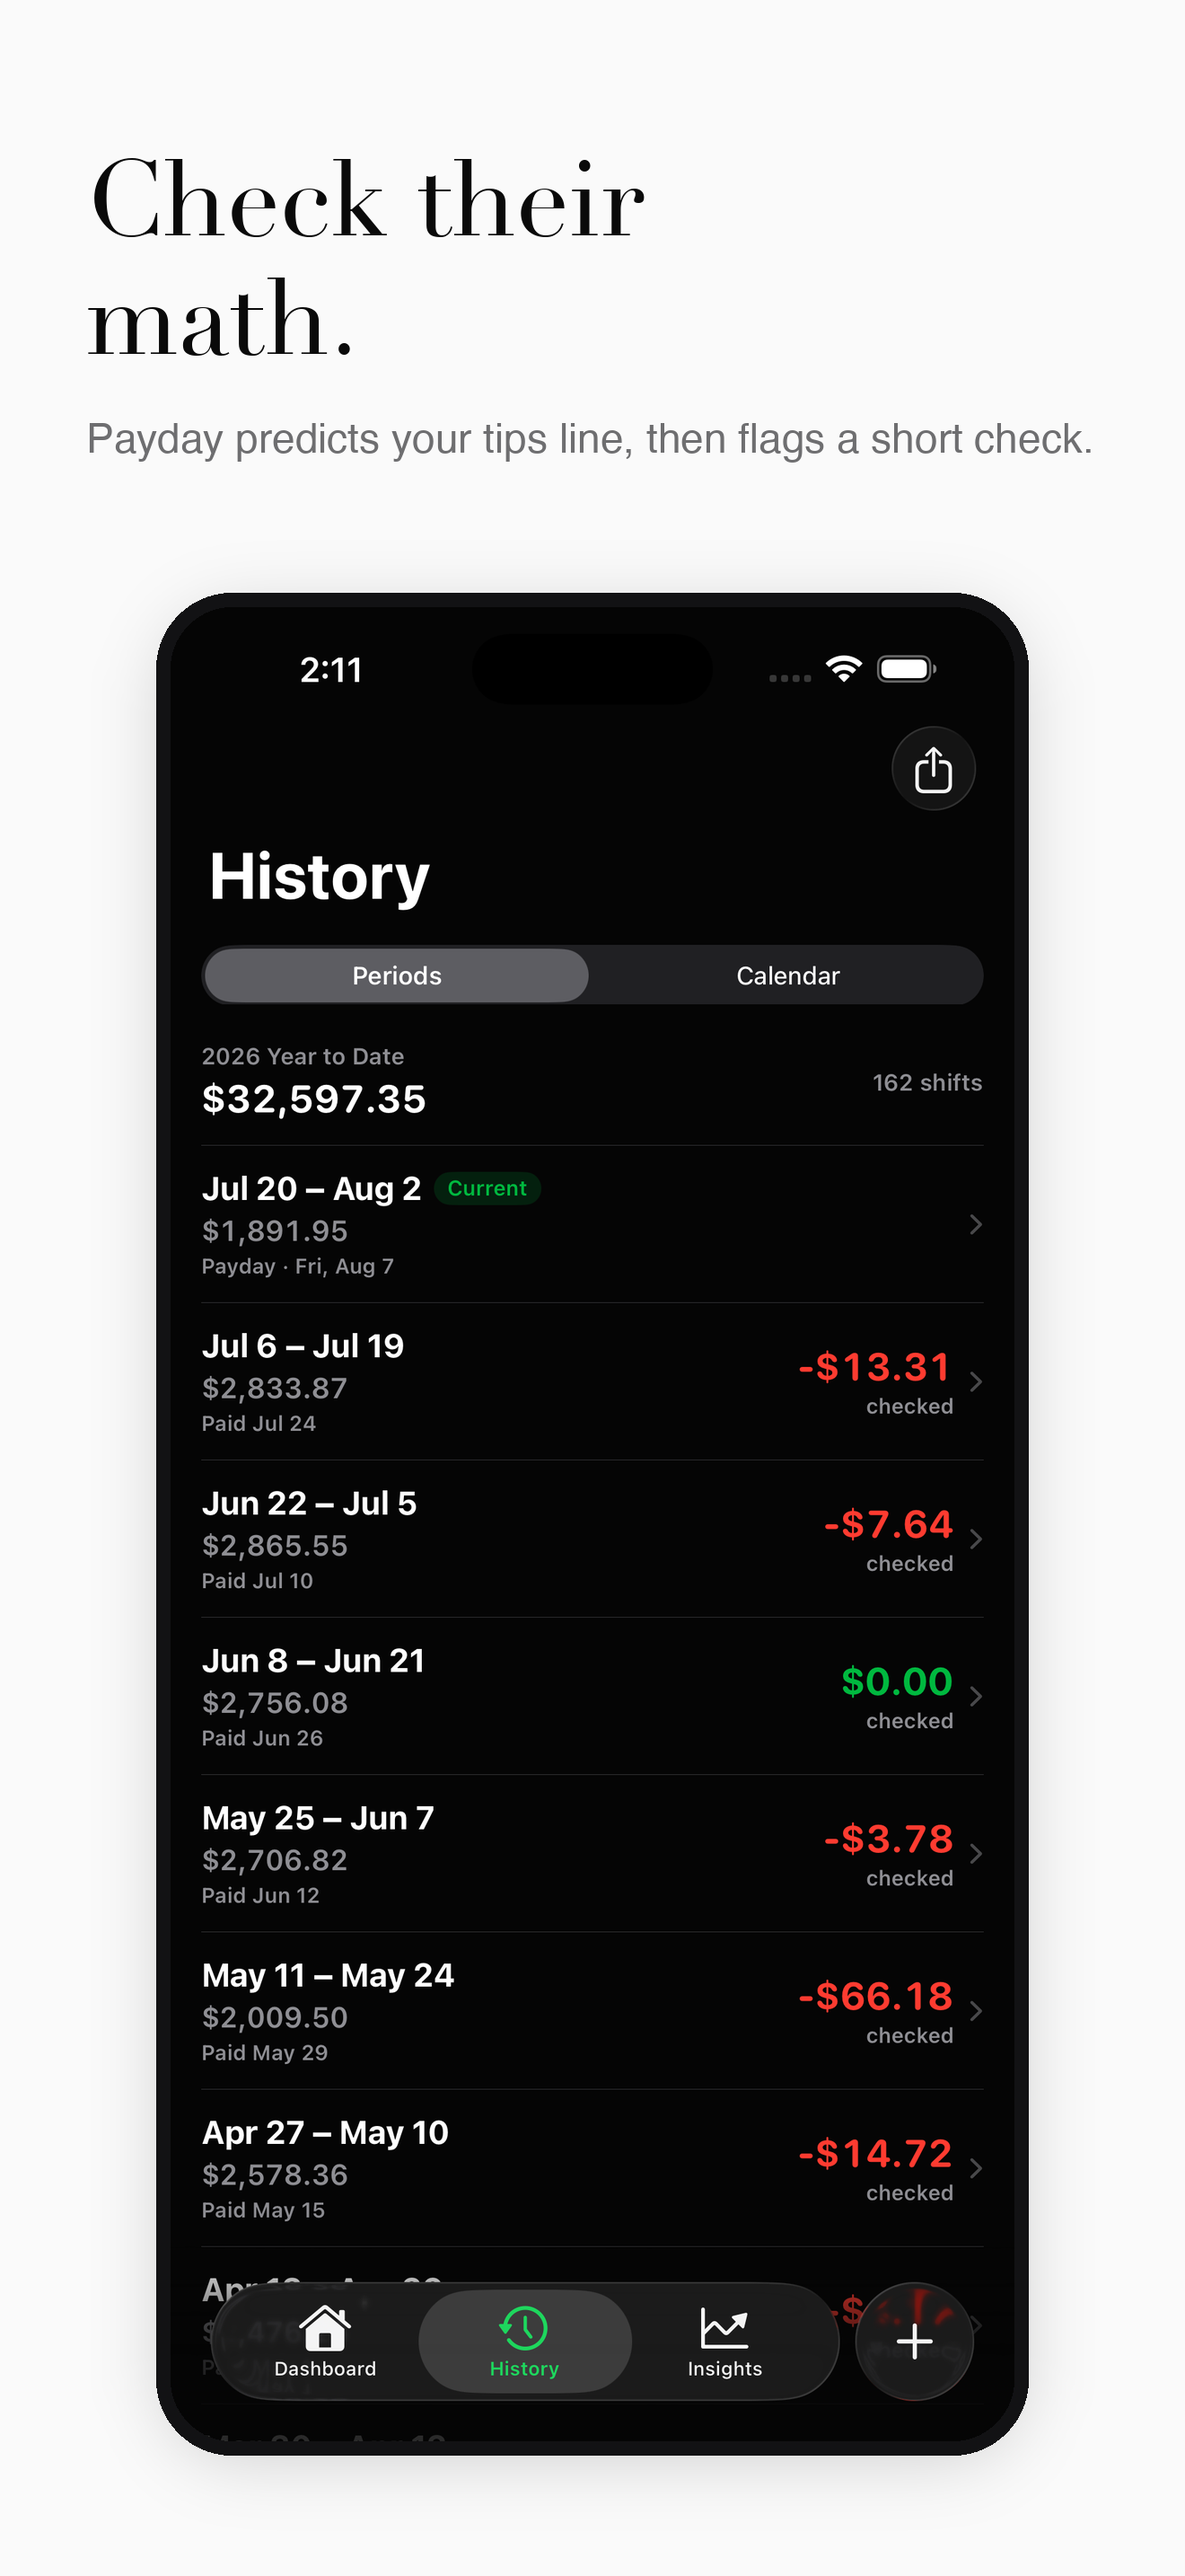
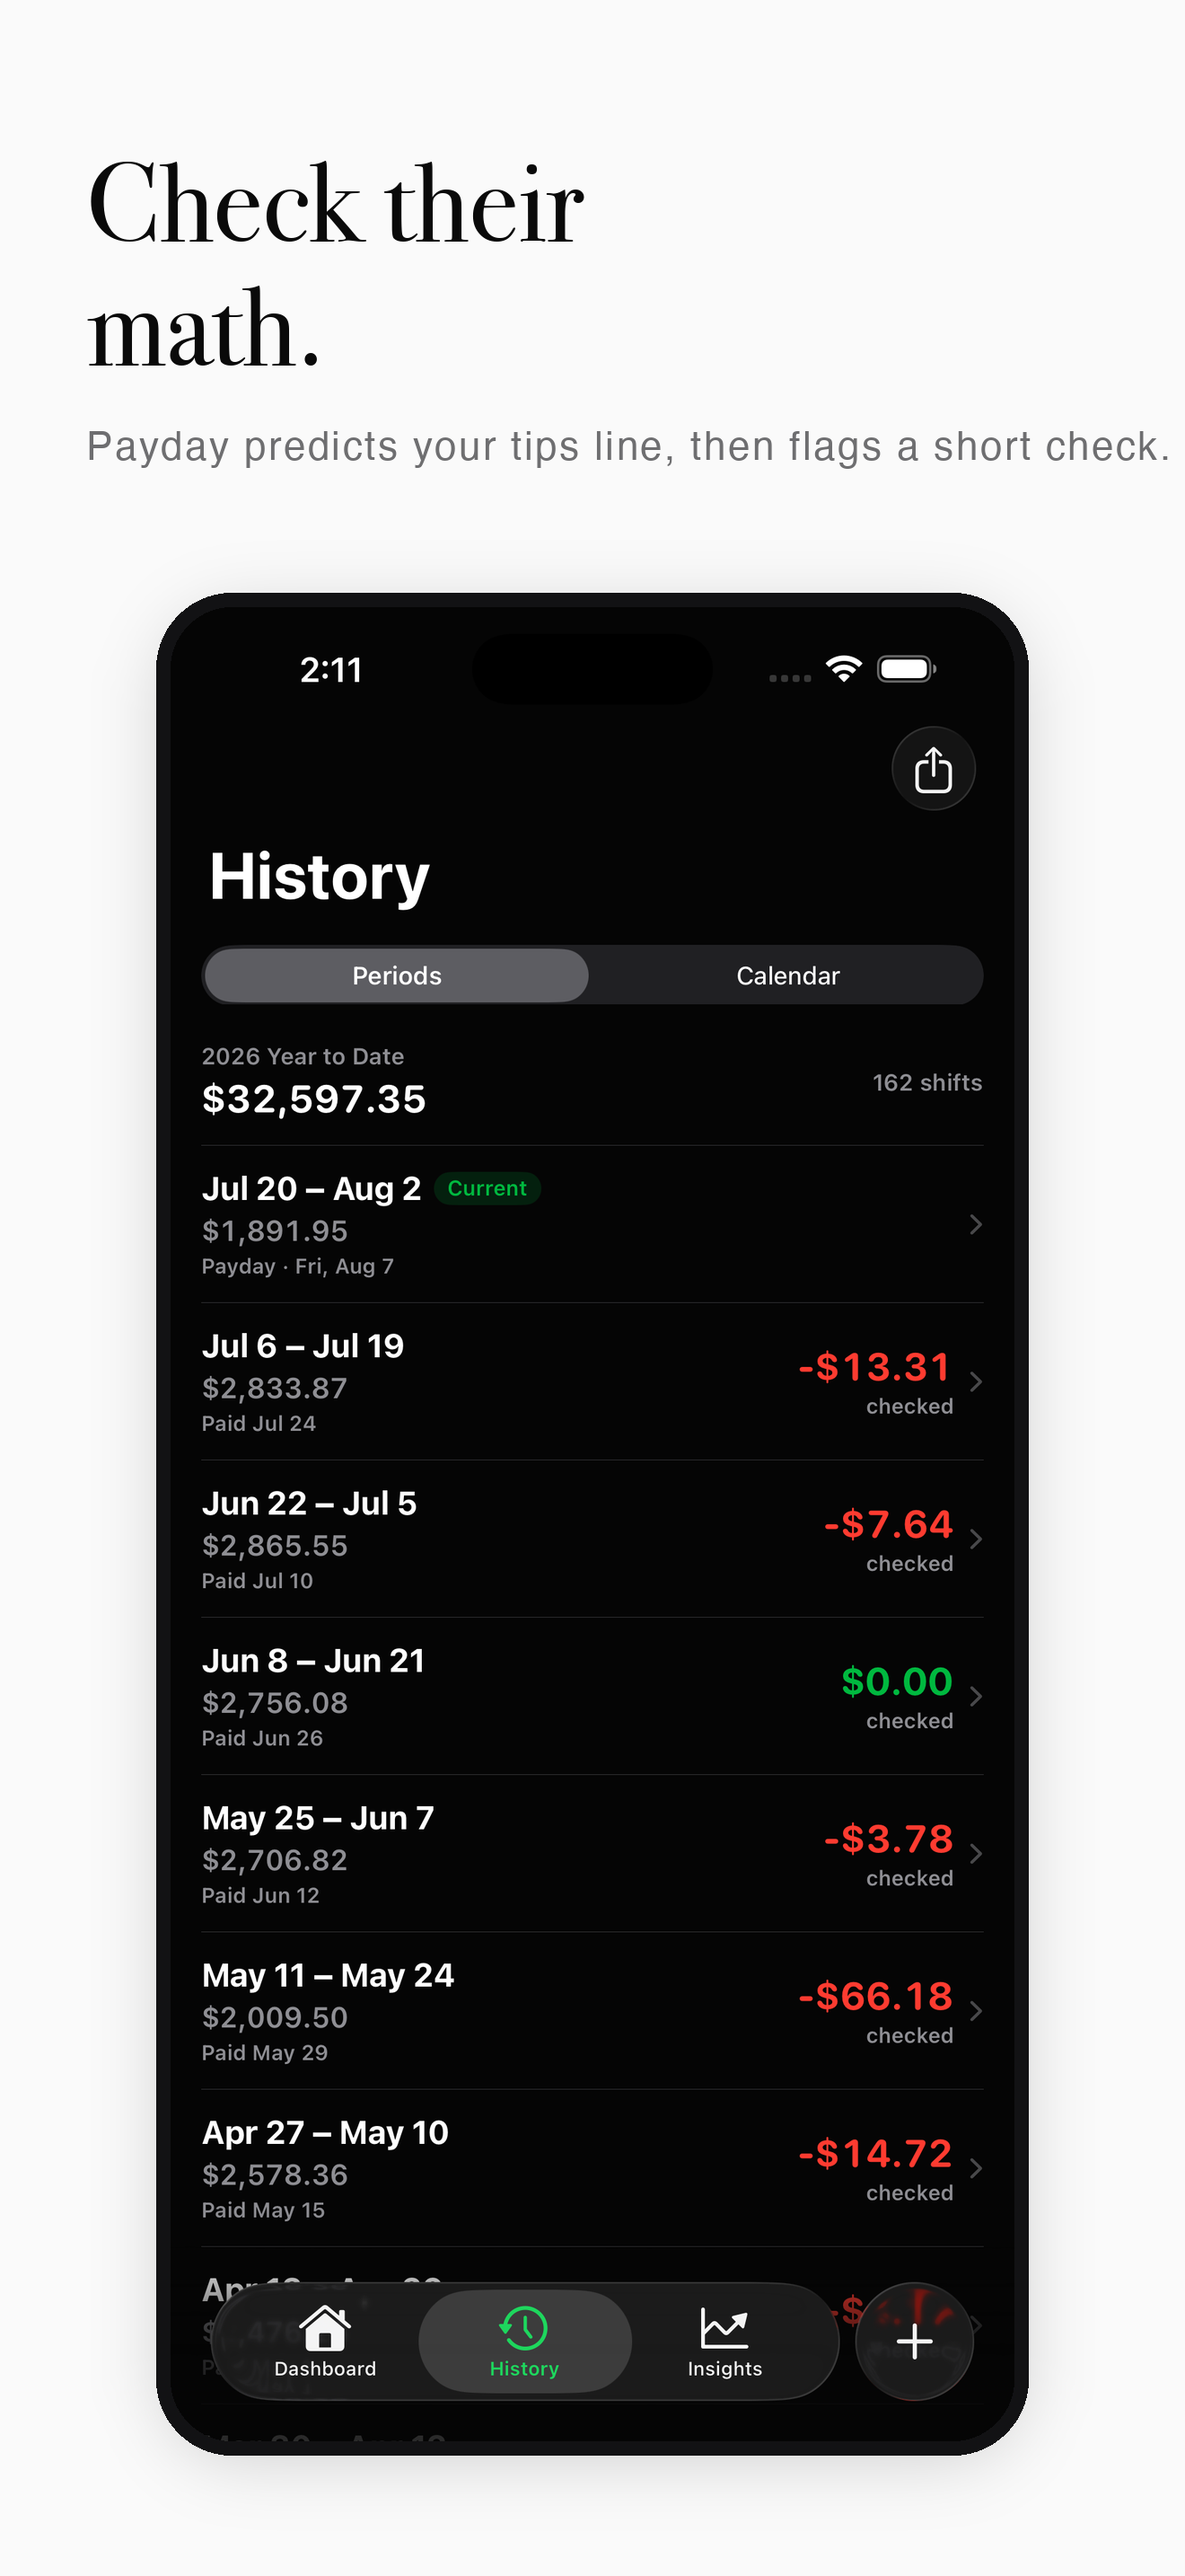
Store screenshot type matches Vero's set
Bodoni 72 Book, not Didot — Vero's headline has a descending hooked J
and a heavier hairline contrast that Didot Regular renders too
delicately. The subhead gains the letter-spacing Vero's has, drawn
glyph by glyph since PIL has no tracking.

Changed region(s): [[0.0621, 0.0621, 0.9629, 0.1862]]

diff --git a/scripts/make-store-screenshots.py b/scripts/make-store-screenshots.py
@@ -24,7 +24,10 @@ INK = (10, 10, 10)
 MUTED = (110, 110, 112)
 BEZEL = (18, 18, 20)
 
-SERIF = "/System/Library/Fonts/Supplemental/Didot.ttc"
+# Bodoni 72 Book, not Didot: Vero's headline has a descending hooked J and
+# a heavier hairline contrast that Didot Regular renders too delicately.
+SERIF = "/System/Library/Fonts/Supplemental/Bodoni 72.ttc"
+SERIF_INDEX = 0
 SANS = "/System/Library/Fonts/Supplemental/Helvetica.ttc"
 SANS_BOLD = "/System/Library/Fonts/Supplemental/Helvetica.ttc"
 
@@ -57,6 +60,15 @@ SHOTS = [
 ]
 
 
+def tracked_text(draw, origin, text, font, fill, tracking):
+    """PIL has no letter-spacing, and the subhead's air is half its
+    character — so the glyphs get placed one at a time."""
+    x, y = origin
+    for char in text:
+        draw.text((x, y), char, font=font, fill=fill)
+        x += draw.textlength(char, font=font) + tracking
+
+
 def rounded_mask(size, radius):
     mask = Image.new("L", size, 0)
     ImageDraw.Draw(mask).rounded_rectangle([0, 0, size[0] - 1, size[1] - 1], radius=radius, fill=255)
@@ -67,14 +79,14 @@ def compose(src: Path, headline: str, subhead: str, dest: Path):
     canvas = Image.new("RGB", (W, H), BG)
     draw = ImageDraw.Draw(canvas)
 
-    head_font = ImageFont.truetype(SERIF, 118)
-    sub_font = ImageFont.truetype(SANS, 46)
+    head_font = ImageFont.truetype(SERIF, 126, index=SERIF_INDEX)
+    sub_font = ImageFont.truetype(SANS, 44)
 
     y = HEAD_TOP
     for line in headline.split("\n"):
         draw.text((MARGIN, y), line, font=head_font, fill=INK)
-        y += 132
-    draw.text((MARGIN, y + 54), subhead, font=sub_font, fill=MUTED)
+        y += 138
+    tracked_text(draw, (MARGIN, y + 52), subhead, sub_font, MUTED, tracking=2.4)
 
     shot = Image.open(src).convert("RGB")
     scale = PHONE_W / shot.width
